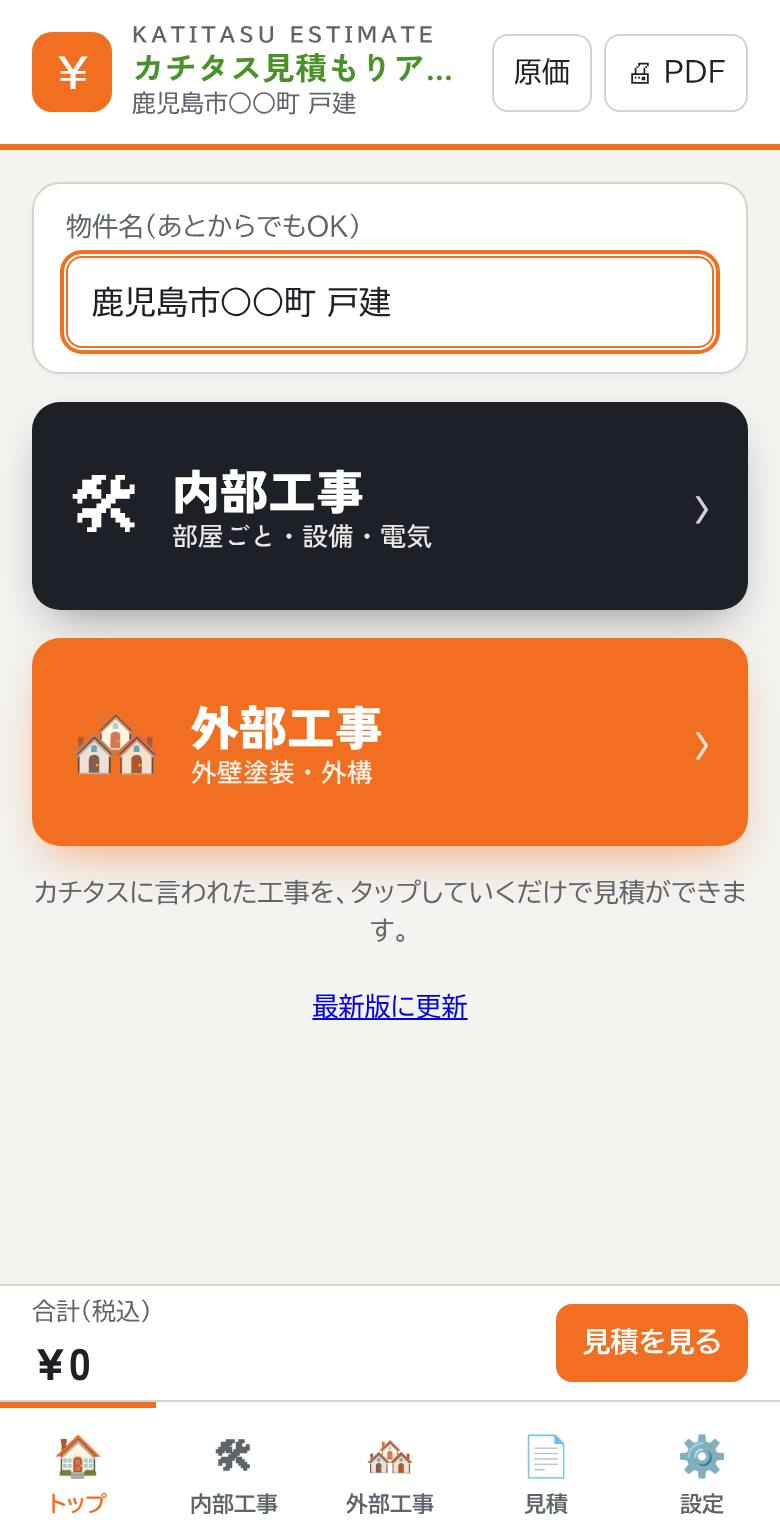
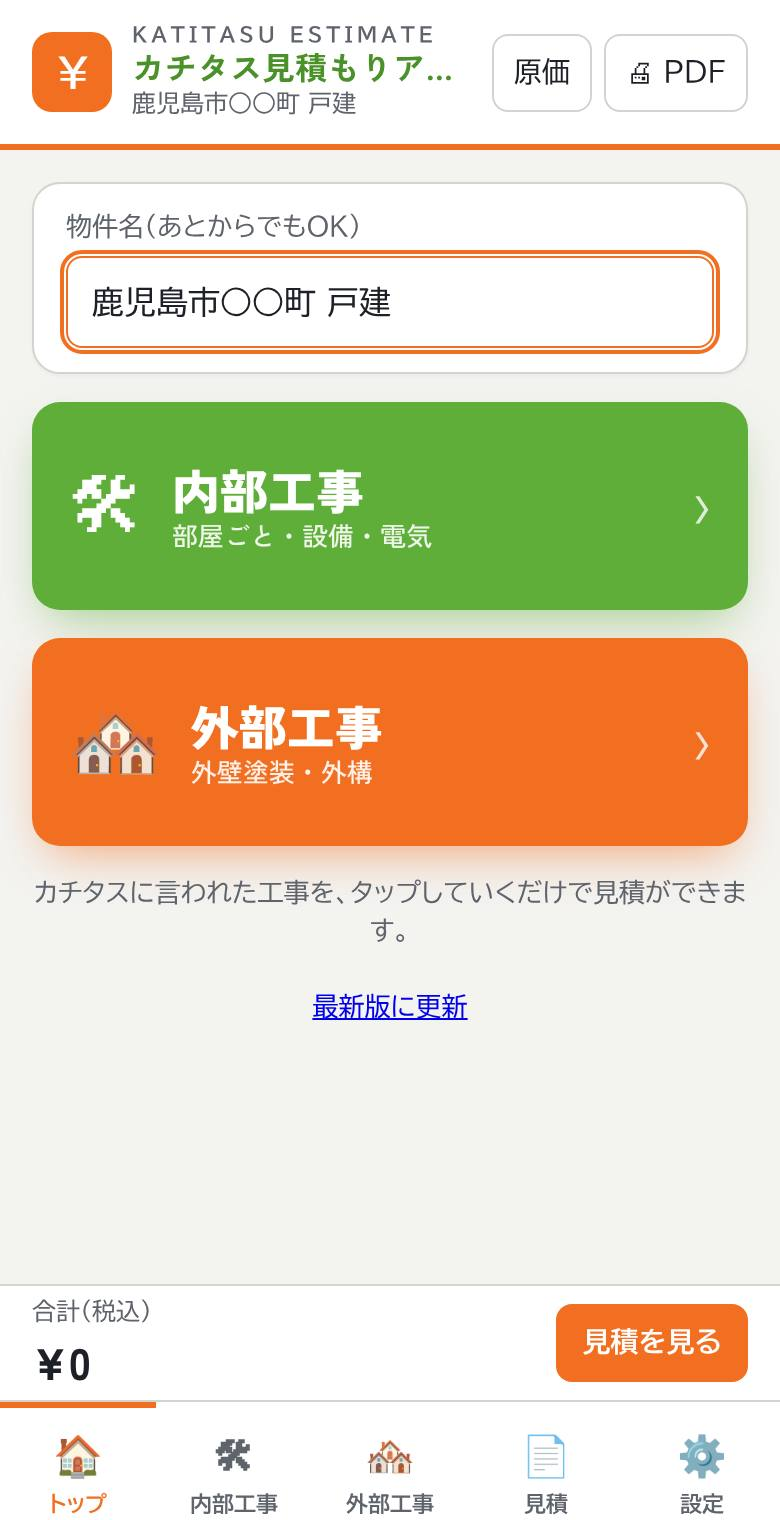
トップの「内部工事」ボタンを緑に
Claude-Session: https://claude.ai/code/session_012X4TJxkiYMm6ALTh6E3a4c

Changed region(s): [[0.0308, 0.2474, 0.9846, 0.4329]]

diff --git a/prices.js b/prices.js
@@ -1513,8 +1513,8 @@ window.PRICE_TABLE = {
  ],
  "costEnc": {
   "v": 1,
-  "salt": "iDBKsrJExOTXEilMoPHAEw==",
-  "iv": "+CJxXE1EATXWXCbJ",
[1 lines of base64/hex data omitted]
+  "salt": "tSYCHbRw5cPBLTKGpe/HMw==",
+  "iv": "5IThU0j/qnJXs33Q",
[1 lines of base64/hex data omitted]
  }
 };

diff --git a/index.html b/index.html
@@ -253,7 +253,7 @@
   .card, .gcard, .addroom { border: 1px solid var(--line); box-shadow: 0 1px 2px rgba(29,32,38,.04); }
   .sec-h { color: var(--text); font-size: 14px; }
   /* トップの大きなボタン */
-  .bigbtn { background: var(--ink); box-shadow: 0 10px 24px -10px rgba(29,32,38,.55); border-radius: 14px; }
+  .bigbtn { background: var(--ok); box-shadow: 0 10px 24px -8px rgba(95,174,58,.6); border-radius: 14px; }
   .bigbtn#goOut { background: var(--accent); box-shadow: 0 10px 24px -8px rgba(242,111,33,.6); }
   .bigbtn .ba { background: rgba(255,255,255,.18); padding: 3px 10px; border-radius: 999px; font-size: 13px; }
   .bigbtn .ba:empty { display: none; }
@@ -340,7 +340,7 @@
       <button class="bigbtn" id="goOut" type="button"><span class="bi">🏘</span><span class="bt">外部工事<small>外壁塗装・外構</small></span><span class="ba" id="homeOut"></span><span class="bc">›</span></button>
       <div class="hint" style="text-align:center;margin-top:6px">カチタスに言われた工事を、タップしていくだけで見積ができます。</div>
       <a class="btn sec" id="guideLink" href="guide.html" style="margin-top:14px;text-decoration:none">📖 使い方ガイドを見る</a>
-      <div class="hint" style="text-align:center;margin-top:18px"><span id="appVer" data-build="1112-1133"></span> <a href="#" id="btnReload">最新版に更新</a></div>
+      <div class="hint" style="text-align:center;margin-top:18px"><span id="appVer" data-build="1112-1134"></span> <a href="#" id="btnReload">最新版に更新</a></div>
     </section>
 
     <!-- 内部工事 -->
@@ -457,7 +457,7 @@
 
 <div id="sheet"></div>
 
-<script src="prices.js?v=1112-1133"></script>
+<script src="prices.js?v=1112-1134"></script>
 <script>
 (function () {
   'use strict';
